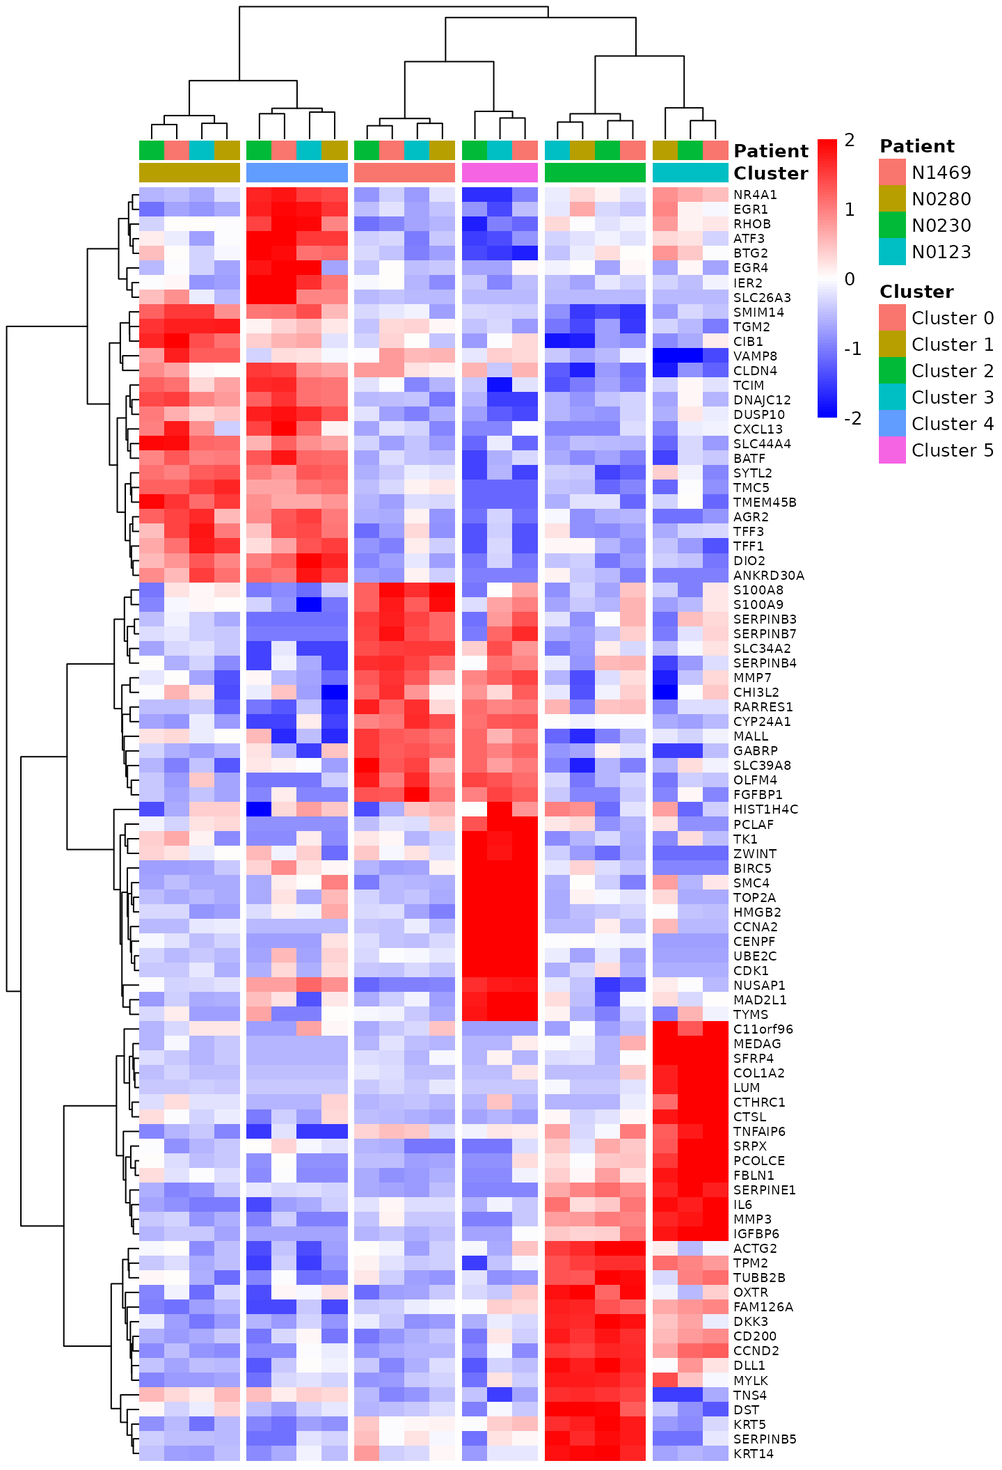
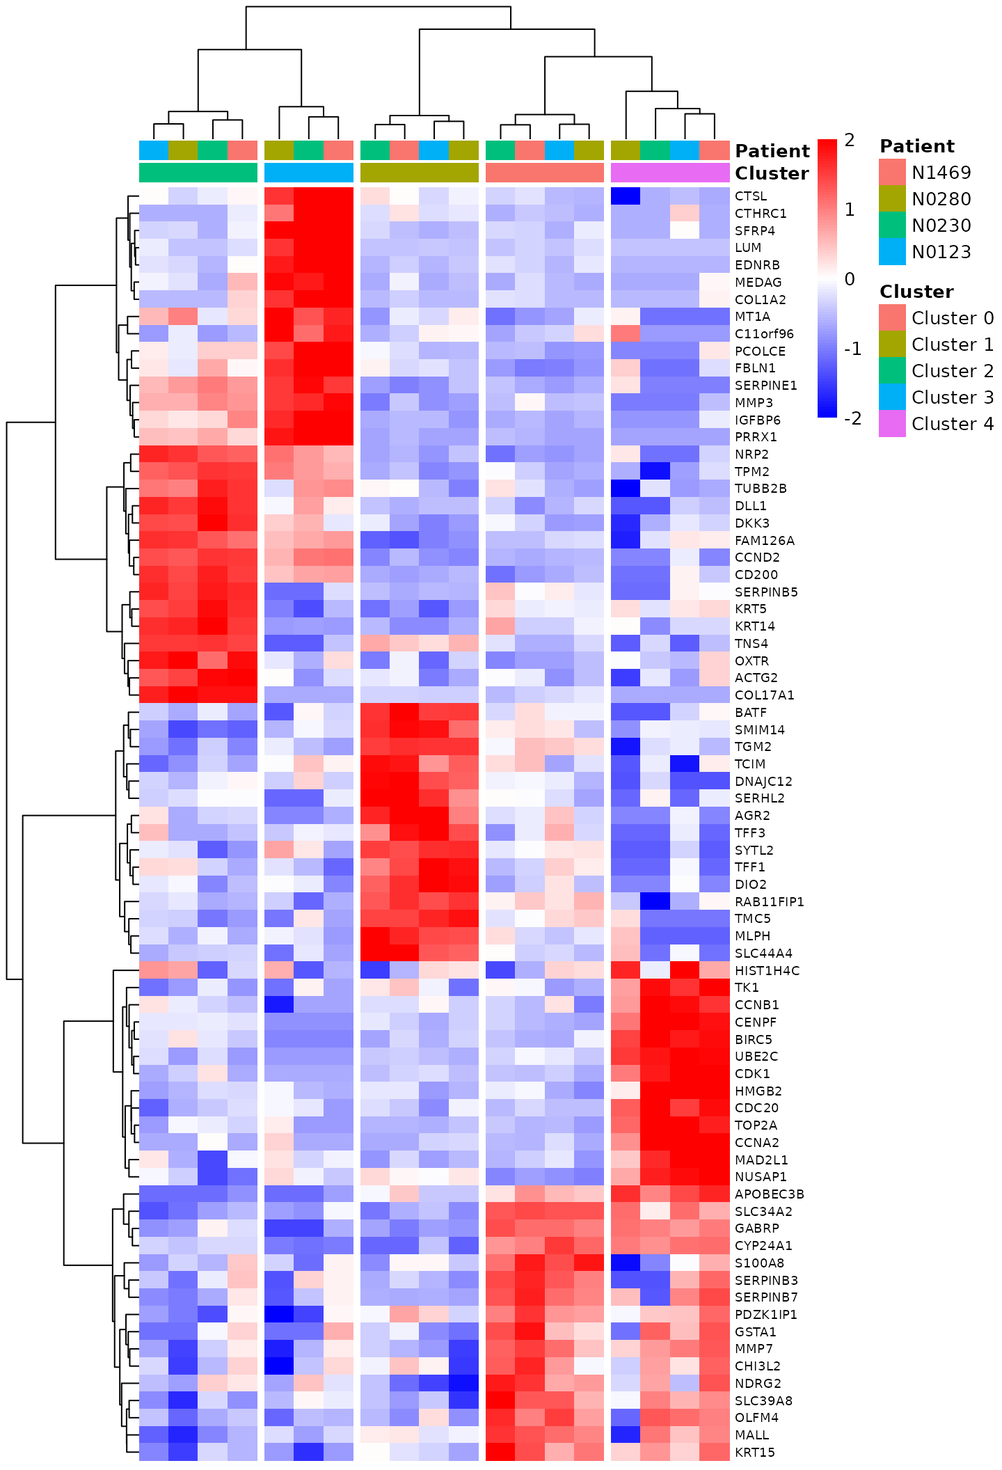
Deploying to gh-pages from  @ 5f4debd39c67eaec10e418c1c1dfe77dff634cad 🚀

diff --git a/articles/SingleCellWorkshop.html b/articles/SingleCellWorkshop.html
@@ -31,7 +31,7 @@
       </button>
       <span class="navbar-brand">
         <a class="navbar-link" href="../index.html">SingleCellWorkshop</a>
-        <span class="version label label-default" data-toggle="tooltip" data-placement="bottom" title="Released version">0.1.18</span>
+        <span class="version label label-default" data-toggle="tooltip" data-placement="bottom" title="Released version">0.1.19</span>
       </span>
     </div>
 
@@ -105,7 +105,7 @@
 <h2 class="hasAnchor">
 <a href="#downloading-the-read-counts" class="anchor"></a>Downloading the read counts</h2>
 <p>In this workshop, we will be using four samples from this published study <span class="citation">(Pal et al. 2021)</span>. These four samples correspond to four individual patients with the following Ids: N1469, N0280, N0230 and N0123. The accession numbers of the four samples are GSM4909258, GSM4909255, GSM4909264 and GSM4909267, respectively.</p>
-<p>We first create a <code>Data</code> folder under the current working directory. Then we make five subfolders with the patient Ids as the folder names under the <code>Data</code> folder.</p>
+<p>We first create a <code>Data</code> folder under the current working directory. Then we make four subfolders with the patient Ids as the folder names under the <code>Data</code> folder.</p>
 <div class="sourceCode" id="cb1"><pre class="downlit sourceCode r">
 <code class="sourceCode R"><span class="va">Samples</span> <span class="op">&lt;-</span> <span class="fu"><a href="https://rdrr.io/r/base/c.html">c</a></span><span class="op">(</span><span class="st">"N1469"</span>, <span class="st">"N0280"</span>, <span class="st">"N0230"</span>, <span class="st">"N0123"</span><span class="op">)</span>
 <span class="kw">for</span><span class="op">(</span><span class="va">i</span> <span class="kw">in</span> <span class="fl">1</span><span class="op">:</span><span class="fu"><a href="https://rdrr.io/r/base/length.html">length</a></span><span class="op">(</span><span class="va">Samples</span><span class="op">)</span><span class="op">)</span><span class="op">{</span>
@@ -438,7 +438,7 @@ Ternary plot positioning each cell according to the proportion of basal, LP, or 
 <p>We identify anchors using the <code><a href="https://satijalab.org/seurat/reference/FindIntegrationAnchors.html">FindIntegrationAnchors()</a></code> function, which takes a list of Seurat objects as input.</p>
 <div class="sourceCode" id="cb40"><pre class="downlit sourceCode r">
 <code class="sourceCode R"><span class="va">Anchors</span> <span class="op">&lt;-</span> <span class="fu"><a href="https://satijalab.org/seurat/reference/FindIntegrationAnchors.html">FindIntegrationAnchors</a></span><span class="op">(</span><span class="va">SeuratList</span><span class="op">)</span></code></pre></div>
-<p>We then use these anchors to integrate the five datasets together with <code><a href="https://satijalab.org/seurat/reference/IntegrateData.html">IntegrateData()</a></code>. This step creates an  data assay.</p>
+<p>We then use these anchors to integrate the four datasets together with <code><a href="https://satijalab.org/seurat/reference/IntegrateData.html">IntegrateData()</a></code>. This step creates an  data assay.</p>
 <div class="sourceCode" id="cb41"><pre class="downlit sourceCode r">
 <code class="sourceCode R"><span class="va">NormEpi</span> <span class="op">&lt;-</span> <span class="fu"><a href="https://satijalab.org/seurat/reference/IntegrateData.html">IntegrateData</a></span><span class="op">(</span><span class="va">Anchors</span><span class="op">)</span></code></pre></div>
 <p>Now we can run a single integrated analysis on all cells. The downstream analysis will be performed on corrected data (the <code>integrated</code> data assay). The original unmodified data still resides in the <code>RNA</code> assay.</p>
@@ -460,7 +460,7 @@ Ternary plot positioning each cell according to the proportion of basal, LP, or 
 UMAP visualization of the integrated data where cells are coloured by patient.
 </p>
 </div>
-<p>From the UMAP it can be seen that cells are not clustered by sample, indicating the batch effects between different samples have been removed. It is also noticable that each of the big clusters contains a mixture of cells from different samples, suggesting these five samples share a similar cell type composition.</p>
+<p>From the UMAP it can be seen that cells are not clustered by sample, indicating the batch effects between different samples have been removed. It is also noticable that each of the big clusters contains a mixture of cells from different samples, suggesting these four samples share a similar cell type composition.</p>
 </div>
 <div id="cell-clustering-1" class="section level2">
 <h2 class="hasAnchor">
@@ -472,17 +472,17 @@ UMAP visualization of the integrated data where cells are coloured by patient.
 <pre><code>## Modularity Optimizer version 1.3.0 by Ludo Waltman and Nees Jan van Eck
 ## 
 ## Number of nodes: 8691
-## Number of edges: 364828
+## Number of edges: 364530
 ## 
 ## Running Louvain algorithm...
-## Maximum modularity in 10 random starts: 0.9637
-## Number of communities: 6
+## Maximum modularity in 10 random starts: 0.9638
+## Number of communities: 5
 ## Elapsed time: 1 seconds</code></pre>
 <div class="sourceCode" id="cb46"><pre class="downlit sourceCode r">
 <code class="sourceCode R"><span class="fu"><a href="https://rdrr.io/r/base/table.html">table</a></span><span class="op">(</span><span class="fu"><a href="https://satijalab.org/seurat/reference/Idents.html">Idents</a></span><span class="op">(</span><span class="va">NormEpi</span><span class="op">)</span><span class="op">)</span></code></pre></div>
 <pre><code>## 
-##    0    1    2    3    4    5 
-## 3896 2982 1221  352  176   64</code></pre>
+##    0    1    2    3    4 
+## 3956 3106 1222  341   66</code></pre>
 <p>The clustering results are shown in the UMAP plot below.</p>
 <div class="sourceCode" id="cb48"><pre class="downlit sourceCode r">
 <code class="sourceCode R"><span class="fu"><a href="https://satijalab.org/seurat/reference/DimPlot.html">DimPlot</a></span><span class="op">(</span><span class="va">NormEpi</span>, reduction <span class="op">=</span> <span class="st">"umap"</span>, label<span class="op">=</span><span class="cn">TRUE</span><span class="op">)</span></code></pre></div>
@@ -559,14 +559,12 @@ Ternary plot positioning each cell according to the proportion of basal, LP, or 
 <span class="va">sampClust</span> <span class="op">&lt;-</span> <span class="fu"><a href="https://rdrr.io/r/base/paste.html">paste</a></span><span class="op">(</span><span class="va">sampID</span>, <span class="va">clustID</span>, sep<span class="op">=</span><span class="st">"_Clst"</span><span class="op">)</span>
 <span class="fu"><a href="https://rdrr.io/r/base/table.html">table</a></span><span class="op">(</span><span class="va">sampClust</span><span class="op">)</span></code></pre></div>
 <pre><code>## sampClust
-## N0123_Clst0 N0123_Clst1 N0123_Clst2 N0123_Clst3 N0123_Clst4 N0123_Clst5 N0230_Clst0 
-##         836        1565         359          13          47          20        1017 
-## N0230_Clst1 N0230_Clst2 N0230_Clst3 N0230_Clst4 N0230_Clst5 N0280_Clst0 N0280_Clst1 
-##         565         142          82          35          16         349         394 
-## N0280_Clst2 N0280_Clst3 N0280_Clst4 N0280_Clst5 N1469_Clst0 N1469_Clst1 N1469_Clst2 
-##         301          40          41           1        1694         458         419 
-## N1469_Clst3 N1469_Clst4 N1469_Clst5 
-##         217          53          27</code></pre>
+## N0123_Clst0 N0123_Clst1 N0123_Clst2 N0123_Clst3 N0123_Clst4 N0230_Clst0 N0230_Clst1 
+##         841        1608         359          12          20        1041         579 
+## N0230_Clst2 N0230_Clst3 N0230_Clst4 N0280_Clst0 N0280_Clst1 N0280_Clst2 N0280_Clst3 
+##         142          79          16         360         422         301          40 
+## N0280_Clst4 N1469_Clst0 N1469_Clst1 N1469_Clst2 N1469_Clst3 N1469_Clst4 
+##           3        1714         497         420         210          27</code></pre>
 <p>We then form pseudo-bulk samples by aggregating the read counts for each gene by cluster-sample combination.</p>
 <div class="sourceCode" id="cb57"><pre class="downlit sourceCode r">
 <code class="sourceCode R"><span class="va">rawCounts</span> <span class="op">&lt;-</span> <span class="fu"><a href="https://rdrr.io/r/base/matrix.html">as.matrix</a></span><span class="op">(</span><span class="va">NormEpi</span><span class="op">@</span><span class="va">assays</span><span class="op">$</span><span class="va">RNA</span><span class="op">@</span><span class="va">counts</span><span class="op">)</span>
@@ -587,7 +585,7 @@ Ternary plot positioning each cell according to the proportion of basal, LP, or 
 <span class="fu"><a href="https://rdrr.io/r/base/table.html">table</a></span><span class="op">(</span><span class="va">keep.sample</span><span class="op">)</span></code></pre></div>
 <pre><code>## keep.sample
 ## FALSE  TRUE 
-##     2    22</code></pre>
+##     1    19</code></pre>
 <div class="sourceCode" id="cb61"><pre class="downlit sourceCode r">
 <code class="sourceCode R"><span class="va">y</span> <span class="op">&lt;-</span> <span class="va">y</span><span class="op">[</span>,<span class="va">keep.sample</span><span class="op">]</span></code></pre></div>
 <p>The gene filtering is performed by the <code>filterByExpr</code> function in edgeR.</p>
@@ -596,7 +594,7 @@ Ternary plot positioning each cell according to the proportion of basal, LP, or 
 <span class="fu"><a href="https://rdrr.io/r/base/table.html">table</a></span><span class="op">(</span><span class="va">keep.gene</span><span class="op">)</span></code></pre></div>
 <pre><code>## keep.gene
 ## FALSE  TRUE 
-##  7099 10701</code></pre>
+##  6990 10810</code></pre>
 <div class="sourceCode" id="cb64"><pre class="downlit sourceCode r">
 <code class="sourceCode R"><span class="va">y</span> <span class="op">&lt;-</span> <span class="va">y</span><span class="op">[</span><span class="va">keep.gene</span>,,keep<span class="op">=</span><span class="cn">FALSE</span><span class="op">]</span></code></pre></div>
 </div>
@@ -608,28 +606,25 @@ Ternary plot positioning each cell according to the proportion of basal, LP, or 
 <code class="sourceCode R"><span class="va">y</span> <span class="op">&lt;-</span> <span class="fu"><a href="https://rdrr.io/pkg/edgeR/man/calcNormFactors.html">calcNormFactors</a></span><span class="op">(</span><span class="va">y</span><span class="op">)</span>
 <span class="va">y</span><span class="op">$</span><span class="va">samples</span></code></pre></div>
 <pre><code>##             group lib.size norm.factors Patient
-## N0123_Clst0     0  4231706        0.921   N0123
-## N0123_Clst1     1  5928347        1.036   N0123
-## N0123_Clst2     2   923732        0.867   N0123
-## N0123_Clst4     4   160151        1.097   N0123
-## N0123_Clst5     5   162483        1.143   N0123
-## N0230_Clst0     0  4147705        1.114   N0230
-## N0230_Clst1     1  1981193        1.142   N0230
-## N0230_Clst2     2   436826        1.060   N0230
-## N0230_Clst3     3   232687        1.106   N0230
-## N0230_Clst4     4   115897        1.200   N0230
-## N0230_Clst5     5   104431        1.470   N0230
-## N0280_Clst0     0  3781624        0.730   N0280
-## N0280_Clst1     1  2062210        1.007   N0280
-## N0280_Clst2     2  1354519        0.867   N0280
-## N0280_Clst3     3   190398        1.040   N0280
-## N0280_Clst4     4   204584        1.165   N0280
-## N1469_Clst0     0 10372641        0.866   N1469
-## N1469_Clst1     1  2303963        0.933   N1469
-## N1469_Clst2     2  1818339        0.831   N1469
-## N1469_Clst3     3  1203015        0.774   N1469
-## N1469_Clst4     4   249112        0.879   N1469
-## N1469_Clst5     5   250260        1.041   N1469</code></pre>
+## N0123_Clst0     0  4252813        0.927   N0123
+## N0123_Clst1     1  6070461        1.068   N0123
+## N0123_Clst2     2   924418        0.941   N0123
+## N0123_Clst4     4   162634        1.232   N0123
+## N0230_Clst0     0  4229170        0.943   N0230
+## N0230_Clst1     1  2035340        1.060   N0230
+## N0230_Clst2     2   433661        0.953   N0230
+## N0230_Clst3     3   221680        1.165   N0230
+## N0230_Clst4     4   104554        1.542   N0230
+## N0280_Clst0     0  3832676        0.768   N0280
+## N0280_Clst1     1  2190221        1.090   N0280
+## N0280_Clst2     2  1355621        0.971   N0280
+## N0280_Clst3     3   190483        1.058   N0280
+## N0280_Clst4     4    55550        1.309   N0280
+## N1469_Clst0     0 10489687        0.723   N1469
+## N1469_Clst1     1  2455788        0.872   N1469
+## N1469_Clst2     2  1825712        0.802   N1469
+## N1469_Clst3     3  1184520        0.845   N1469
+## N1469_Clst4     4   250531        1.059   N1469</code></pre>
 </div>
 <div id="data-exploration" class="section level2">
 <h2 class="hasAnchor">
@@ -654,7 +649,7 @@ MDS plots of the pseudo-bulk samples.
 <code class="sourceCode R"><span class="va">design</span> <span class="op">&lt;-</span> <span class="fu"><a href="https://rdrr.io/r/stats/model.matrix.html">model.matrix</a></span><span class="op">(</span><span class="op">~</span> <span class="fl">0</span> <span class="op">+</span> <span class="va">Cluster</span> <span class="op">+</span> <span class="va">Patient</span><span class="op">)</span>
 <span class="fu"><a href="https://rdrr.io/r/base/colnames.html">colnames</a></span><span class="op">(</span><span class="va">design</span><span class="op">)</span></code></pre></div>
 <pre><code>## [1] "Cluster0"     "Cluster1"     "Cluster2"     "Cluster3"     "Cluster4"    
-## [6] "Cluster5"     "PatientN0280" "PatientN0230" "PatientN0123"</code></pre>
+## [6] "PatientN0280" "PatientN0230" "PatientN0123"</code></pre>
 </div>
 <div id="dispersion-estimation" class="section level2">
 <h2 class="hasAnchor">
@@ -686,16 +681,15 @@ edgeR BCV and quasi-likelihood dispersion plots.
 <span class="fu"><a href="https://rdrr.io/r/base/colnames.html">rownames</a></span><span class="op">(</span><span class="va">contr</span><span class="op">)</span> <span class="op">&lt;-</span> <span class="fu"><a href="https://rdrr.io/r/base/colnames.html">colnames</a></span><span class="op">(</span><span class="va">design</span><span class="op">)</span>
 <span class="fu"><a href="https://rdrr.io/r/base/colnames.html">colnames</a></span><span class="op">(</span><span class="va">contr</span><span class="op">)</span> <span class="op">&lt;-</span> <span class="fu"><a href="https://rdrr.io/r/base/paste.html">paste0</a></span><span class="op">(</span><span class="st">"Cluster"</span>, <span class="fu"><a href="https://rdrr.io/r/base/levels.html">levels</a></span><span class="op">(</span><span class="fu"><a href="https://satijalab.org/seurat/reference/Idents.html">Idents</a></span><span class="op">(</span><span class="va">NormEpi</span><span class="op">)</span><span class="op">)</span><span class="op">)</span>
 <span class="va">contr</span></code></pre></div>
-<pre><code>##              Cluster0 Cluster1 Cluster2 Cluster3 Cluster4 Cluster5
-## Cluster0          1.0     -0.2     -0.2     -0.2     -0.2     -0.2
-## Cluster1         -0.2      1.0     -0.2     -0.2     -0.2     -0.2
-## Cluster2         -0.2     -0.2      1.0     -0.2     -0.2     -0.2
-## Cluster3         -0.2     -0.2     -0.2      1.0     -0.2     -0.2
-## Cluster4         -0.2     -0.2     -0.2     -0.2      1.0     -0.2
-## Cluster5         -0.2     -0.2     -0.2     -0.2     -0.2      1.0
-## PatientN0280      0.0      0.0      0.0      0.0      0.0      0.0
-## PatientN0230      0.0      0.0      0.0      0.0      0.0      0.0
-## PatientN0123      0.0      0.0      0.0      0.0      0.0      0.0</code></pre>
+<pre><code>##              Cluster0 Cluster1 Cluster2 Cluster3 Cluster4
+## Cluster0         1.00    -0.25    -0.25    -0.25    -0.25
+## Cluster1        -0.25     1.00    -0.25    -0.25    -0.25
+## Cluster2        -0.25    -0.25     1.00    -0.25    -0.25
+## Cluster3        -0.25    -0.25    -0.25     1.00    -0.25
+## Cluster4        -0.25    -0.25    -0.25    -0.25     1.00
+## PatientN0280     0.00     0.00     0.00     0.00     0.00
+## PatientN0230     0.00     0.00     0.00     0.00     0.00
+## PatientN0123     0.00     0.00     0.00     0.00     0.00</code></pre>
 <p>We then perform quasi-likelihood F-test under each contrast. In order to focus on genes with strong DE signal, we test for the differences above a fold-change threshold of 1.3. This is done by calling the <code>glmTreat</code> function in edgeR. The results of all the tests are stored as a list of <code>DGELRT</code> objects.</p>
 <div class="sourceCode" id="cb74"><pre class="downlit sourceCode r">
 <code class="sourceCode R"><span class="va">test</span> <span class="op">&lt;-</span> <span class="fu"><a href="https://rdrr.io/r/base/list.html">list</a></span><span class="op">(</span><span class="op">)</span>
@@ -707,35 +701,35 @@ edgeR BCV and quasi-likelihood dispersion plots.
 <span class="va">dtest</span> <span class="op">&lt;-</span> <span class="fu"><a href="https://rdrr.io/r/base/do.call.html">do.call</a></span><span class="op">(</span><span class="st">"cbind"</span>, <span class="va">dtest</span><span class="op">)</span>
 <span class="fu"><a href="https://rdrr.io/r/base/colnames.html">colnames</a></span><span class="op">(</span><span class="va">dtest</span><span class="op">)</span> <span class="op">&lt;-</span> <span class="fu"><a href="https://rdrr.io/r/base/colnames.html">colnames</a></span><span class="op">(</span><span class="va">contr</span><span class="op">)</span>
 <span class="va">dtest</span></code></pre></div>
-<pre><code>##        Cluster0 Cluster1 Cluster2 Cluster3 Cluster4 Cluster5
-## Down        494      896     1463      823     1190      415
-## NotSig     9155     7577     7059     8317     8090     9701
-## Up         1052     2228     2179     1561     1421      585</code></pre>
+<pre><code>##        Cluster0 Cluster1 Cluster2 Cluster3 Cluster4
+## Down        329     1181     1479     1252      655
+## NotSig     8975     6982     7156     8184     9630
+## Up         1506     2647     2175     1374      525</code></pre>
 <p>We can view the top DE results using the <code>topTags</code> function. For example, to see the top 20 DE genes of cluster 2 vs all the other clusters, we use the following line.</p>
 <div class="sourceCode" id="cb77"><pre class="downlit sourceCode r">
 <code class="sourceCode R"><span class="fu"><a href="https://rdrr.io/pkg/edgeR/man/topTags.html">topTags</a></span><span class="op">(</span><span class="va">test</span><span class="op">$</span><span class="va">Cluster2</span>, n<span class="op">=</span><span class="fl">20L</span><span class="op">)</span></code></pre></div>
-<pre><code>## Coefficient:  -0.2*Cluster0 -0.2*Cluster1 1*Cluster2 -0.2*Cluster3 -0.2*Cluster4 -0.2*Cluster5 
+<pre><code>## Coefficient:  -0.25*Cluster0 -0.25*Cluster1 1*Cluster2 -0.25*Cluster3 -0.25*Cluster4 
 ##          logFC unshrunk.logFC logCPM   PValue      FDR
-## ACTG2     7.81           7.82   9.28 2.04e-23 2.18e-19
-## SERPINB5  6.50           6.52   6.72 4.21e-22 2.25e-18
-## DKK3      5.68           5.70   6.89 6.88e-22 2.45e-18
-## DLL1      5.81           5.83   6.16 2.74e-21 6.44e-18
-## KRT5      6.45           6.45   8.93 3.01e-21 6.44e-18
-## TNS4      5.24           5.26   6.34 1.14e-20 2.04e-17
-## CD200     6.47           6.50   6.68 1.51e-20 2.31e-17
-## CCND2     6.44           6.55   5.73 2.53e-20 3.39e-17
-## OXTR      5.71           5.74   6.50 3.82e-20 4.55e-17
-## TPM2      5.82           5.83   8.25 4.34e-20 4.64e-17
-## MYLK      6.43           6.48   6.49 6.16e-20 6.00e-17
-## KRT14     7.54           7.54  11.02 1.46e-19 1.31e-16
-## DST       3.96           3.96   8.83 1.97e-19 1.62e-16
-## FAM126A   4.69           4.72   5.90 5.24e-19 4.00e-16
-## TUBB2B    4.30           4.30   7.71 6.84e-19 4.88e-16
-## COL17A1   9.72          21.77   5.19 1.13e-18 7.58e-16
-## MSRB3     5.57           5.61   5.30 1.31e-18 7.98e-16
-## LAMA3     6.26           9.73   6.35 1.34e-18 7.98e-16
-## PPP1R3C   6.63           6.69   5.77 2.19e-18 1.23e-15
-## ACTA2     5.97           5.98   8.57 3.47e-18 1.86e-15</code></pre>
+## SERPINB5  6.33           6.35   6.87 2.98e-19 1.87e-15
+## DLL1      5.88           5.90   6.27 3.62e-19 1.87e-15
+## ACTG2     7.42           7.43   9.53 5.19e-19 1.87e-15
+## DKK3      5.57           5.58   7.06 1.36e-18 3.03e-15
+## CCND2     6.37           6.48   5.82 1.48e-18 3.03e-15
+## TNS4      5.73           5.76   6.38 1.68e-18 3.03e-15
+## CD200     6.37           6.40   6.81 2.96e-18 4.57e-15
+## OXTR      5.75           5.77   6.57 1.75e-17 2.21e-14
+## TUBB2B    4.15           4.15   7.89 1.84e-17 2.21e-14
+## KRT5      6.03           6.04   9.16 2.08e-17 2.25e-14
+## COL17A1   9.41          19.32   5.26 3.20e-17 3.15e-14
+## KRT14     7.48           7.48  11.25 3.52e-17 3.17e-14
+## NRP2      5.77           5.82   5.87 3.82e-17 3.17e-14
+## TPM2      5.29           5.29   8.45 1.26e-16 9.71e-14
+## FAM126A   4.08           4.10   5.97 1.43e-16 1.03e-13
+## LAMA3     7.13          11.41   6.38 1.61e-16 1.07e-13
+## MYLK      6.36           6.40   6.61 1.69e-16 1.07e-13
+## MSRB3     5.28           5.31   5.38 3.24e-16 1.94e-13
+## PPP1R3C   6.39           6.44   5.87 4.39e-16 2.50e-13
+## MEG3      5.51           5.55   7.58 4.89e-16 2.64e-13</code></pre>
 <p>We can extract the top 15 marker genes (up-regulated only) of each cluster as follows.</p>
 <div class="sourceCode" id="cb79"><pre class="downlit sourceCode r">
 <code class="sourceCode R"><span class="va">top</span> <span class="op">&lt;-</span> <span class="fl">15</span>

diff --git a/404.html b/404.html
@@ -71,7 +71,7 @@
       </button>
       <span class="navbar-brand">
         <a class="navbar-link" href="https://yunshun.github.io/SingleCellWorkshop/index.html">SingleCellWorkshop</a>
-        <span class="version label label-default" data-toggle="tooltip" data-placement="bottom" title="Released version">0.1.18</span>
+        <span class="version label label-default" data-toggle="tooltip" data-placement="bottom" title="Released version">0.1.19</span>
       </span>
     </div>
 

diff --git a/articles/index.html b/articles/index.html
@@ -71,7 +71,7 @@
       </button>
       <span class="navbar-brand">
         <a class="navbar-link" href="../index.html">SingleCellWorkshop</a>
-        <span class="version label label-default" data-toggle="tooltip" data-placement="bottom" title="Released version">0.1.18</span>
+        <span class="version label label-default" data-toggle="tooltip" data-placement="bottom" title="Released version">0.1.19</span>
       </span>
     </div>
 

diff --git a/reference/index.html b/reference/index.html
@@ -71,7 +71,7 @@
       </button>
       <span class="navbar-brand">
         <a class="navbar-link" href="../index.html">SingleCellWorkshop</a>
-        <span class="version label label-default" data-toggle="tooltip" data-placement="bottom" title="Released version">0.1.18</span>
+        <span class="version label label-default" data-toggle="tooltip" data-placement="bottom" title="Released version">0.1.19</span>
       </span>
     </div>
 

diff --git a/LICENSE-text.html b/LICENSE-text.html
@@ -71,7 +71,7 @@
       </button>
       <span class="navbar-brand">
         <a class="navbar-link" href="index.html">SingleCellWorkshop</a>
-        <span class="version label label-default" data-toggle="tooltip" data-placement="bottom" title="Released version">0.1.18</span>
+        <span class="version label label-default" data-toggle="tooltip" data-placement="bottom" title="Released version">0.1.19</span>
       </span>
     </div>
 

diff --git a/LICENSE.html b/LICENSE.html
@@ -71,7 +71,7 @@
       </button>
       <span class="navbar-brand">
         <a class="navbar-link" href="index.html">SingleCellWorkshop</a>
-        <span class="version label label-default" data-toggle="tooltip" data-placement="bottom" title="Released version">0.1.18</span>
+        <span class="version label label-default" data-toggle="tooltip" data-placement="bottom" title="Released version">0.1.19</span>
       </span>
     </div>
 

diff --git a/authors.html b/authors.html
@@ -71,7 +71,7 @@
       </button>
       <span class="navbar-brand">
         <a class="navbar-link" href="index.html">SingleCellWorkshop</a>
-        <span class="version label label-default" data-toggle="tooltip" data-placement="bottom" title="Released version">0.1.18</span>
+        <span class="version label label-default" data-toggle="tooltip" data-placement="bottom" title="Released version">0.1.19</span>
       </span>
     </div>
 

diff --git a/index.html b/index.html
@@ -32,7 +32,7 @@
       </button>
       <span class="navbar-brand">
         <a class="navbar-link" href="index.html">SingleCellWorkshop</a>
-        <span class="version label label-default" data-toggle="tooltip" data-placement="bottom" title="Released version">0.1.18</span>
+        <span class="version label label-default" data-toggle="tooltip" data-placement="bottom" title="Released version">0.1.19</span>
       </span>
     </div>
 
